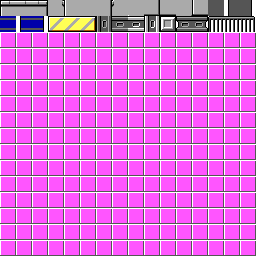
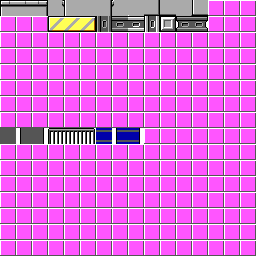
Upped FPS to 30. Changed BG tile positions. Fixed horizontal collisions in center of player.

Changed region(s): [[0.0, 0.5, 0.5625, 0.5625], [0.8125, 0.0, 1.0, 0.125], [0.0, 0.0625, 0.1875, 0.125]]

diff --git a/tt_main.c b/tt_main.c
@@ -15,8 +15,8 @@
 
 bool program_done = false;
 
-const float FPS = 16;
-const float ANIM_SPEED = 8;
+const float FPS = 30;
+const float ANIM_SPEED = 10;
 
 bool redraw = true;
 
@@ -54,9 +54,9 @@ ALLEGRO_BITMAP *game = NULL;
 int init_game()
 {
    player.cur_frame = 0;
-   player.speed = 16;
+   player.speed = 30;
    player.state = STOPPED;
-   player.vel_x = 8;
+   player.vel_x = 4;
 
 
    //Initialize Allegro
@@ -380,17 +380,19 @@ void update_player()
          if (player.on_ground) player.state = STOPPED;
       }
    //Horizontal tile collision
-   if (is_ground(map, player.x + 16, player.y +1)) player.x = old_x;
-   if (is_ground(map, player.x + 8, player.y +1)) player.x = old_x;
-   if (is_ground(map, player.x + 16, player.y +31)) player.x = old_x;
-   if (is_ground(map, player.x +8, player.y +31)) player.x = old_x;
+   if (is_ground(map, player.x + x1, player.y )) player.x = old_x; //top
+   if (is_ground(map, player.x + x2, player.y )) player.x = old_x;
+   if (is_ground(map, player.x + x1, player.y + 16)) player.x = old_x; //center
+   if (is_ground(map, player.x + x2, player.y + 16)) player.x = old_x;
+   if (is_ground(map, player.x + x1, player.y + 31)) player.x = old_x; //bottom
+   if (is_ground(map, player.x + x2, player.y + 31)) player.x = old_x;
 
    //Vertical Movement
    if (!is_ground(map, player.x + x1, player.y +32))
    {
       if(!is_ground(map, player.x +x2, player.y + 32))
       {
-         player.vel_y += 16;
+         player.vel_y += 4;
          player.on_ground = false;
          if (player.vel_y >= 0) player.state = FALLING;
          if (player.vel_y < 0) player.state = JUMPING;
@@ -407,14 +409,13 @@ void update_player()
    //Pressed jump
    if (key[KEY_LCTRL] && player.on_ground && !player.jump_pressed && !player.jumping)
    {
-
-      player.vel_y = -82;
+      player.vel_y = -48;
       player.jumping = true;
       player.jump_pressed = true;
    }
    //Apply vertical force
    player.y += player.vel_y >> 2;
-   if (player.vel_y > 32) player.vel_y = 32;
+   if (player.vel_y > 48) player.vel_y = 48;
 
    //Check floor
    while (is_ground(map, player.x + x1, player.y +31)) {player.y--; player.jumping = false; player.on_ground = true; }
@@ -437,20 +438,16 @@ void check_timer_logic(ALLEGRO_EVENT *ev)
    {
       /**** Player movement ****/
       update_player();
-      animate_player(&player);
    }
    //Frames
    if (ev->timer.source == FPS_TIMER)
    {
 
    }
-
-
-
    //Animation
    if (ev->timer.source == ANIM_TIMER)
    {
-
+      animate_player(&player);
    }
 
 

diff --git a/tt_main.h b/tt_main.h
@@ -13,7 +13,7 @@
 #define MAP_WIDTH 128
 #define MAP_HEIGHT 90
 
-#define DISPLAY_MULTIPLIER 6.
+#define DISPLAY_MULTIPLIER 10
 
 typedef struct t_cam
 {
